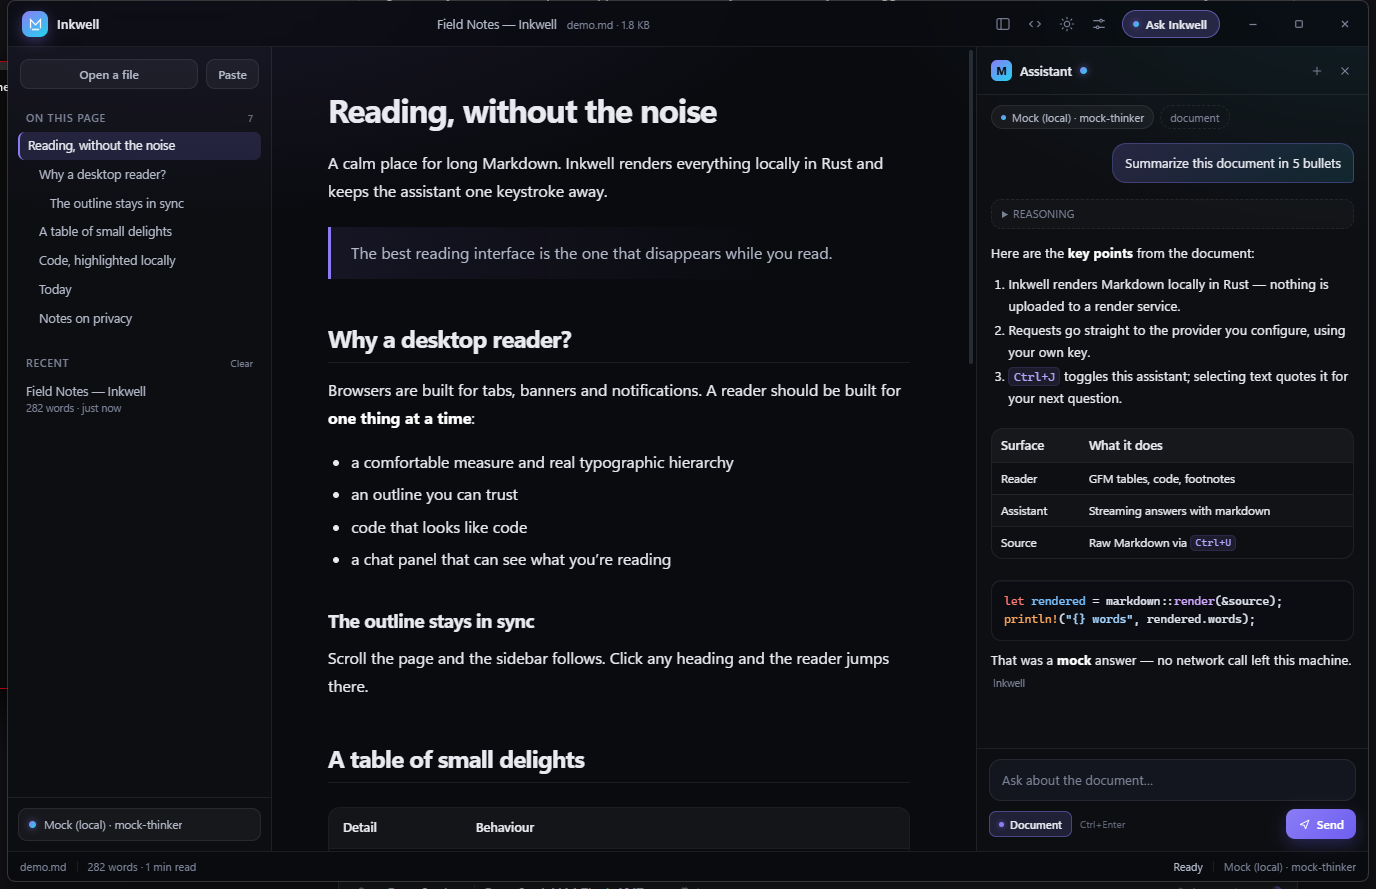
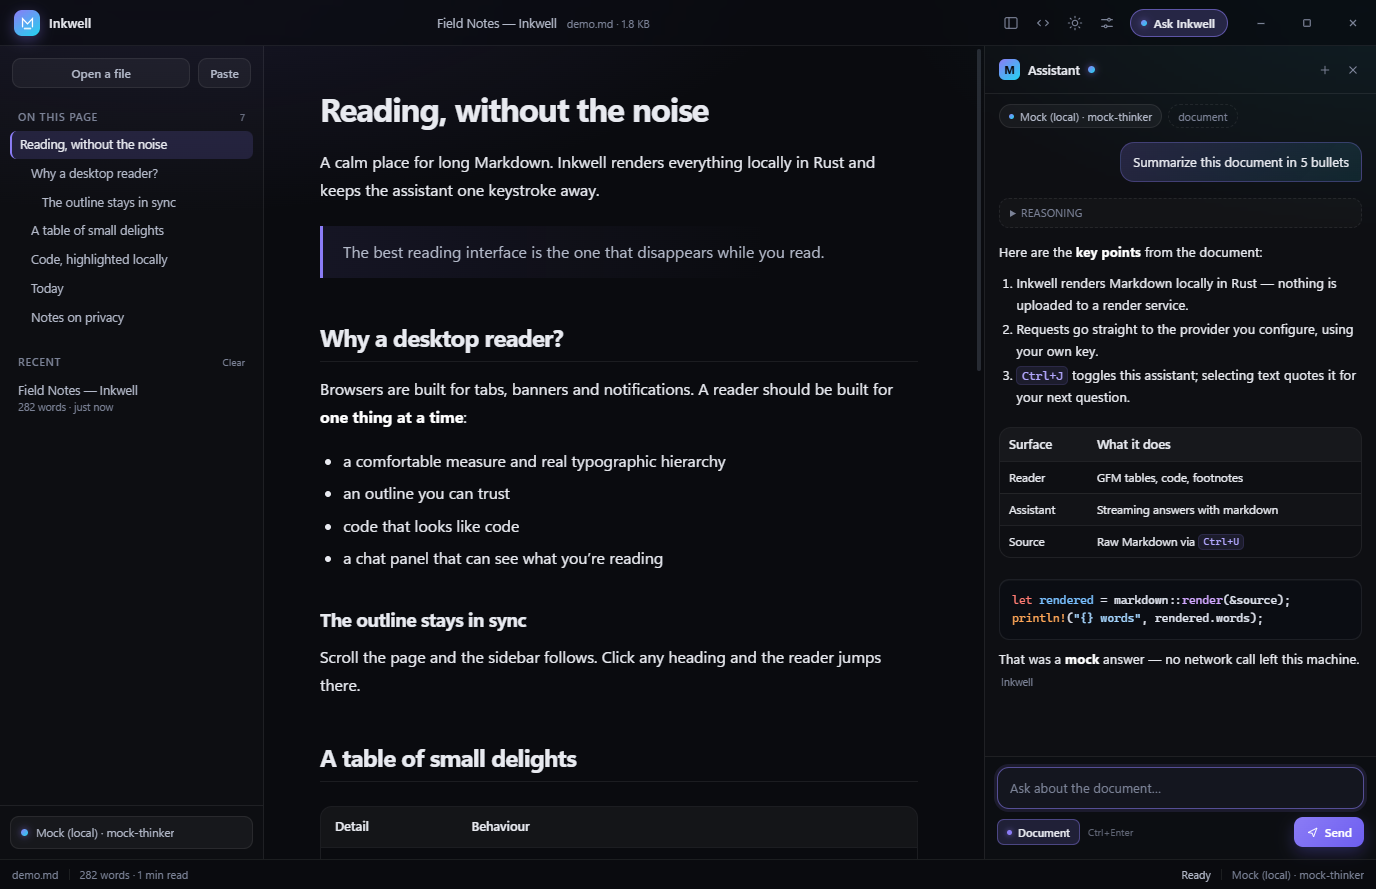
Fix frameless window repaint and add linker config
Force WM_NCCALCSIZE after installing the window subclass so the client area covers the full window and no stale desktop border shows. Add .cargo/config.toml pinning the GNU target to GCC, require Rust 1.85, document the MinGW setup and WebView profile location, and refresh the screenshot.

diff --git a/src/main.rs b/src/main.rs
@@ -106,7 +106,8 @@ fn use_full_window_client_area(window: &tao::window::Window) {
     };
     use windows_sys::Win32::UI::Shell::{DefSubclassProc, SetWindowSubclass};
     use windows_sys::Win32::UI::WindowsAndMessaging::{
-        IsZoomed, NCCALCSIZE_PARAMS, WM_NCCALCSIZE,
+        IsZoomed, NCCALCSIZE_PARAMS, SetWindowPos, SWP_FRAMECHANGED, SWP_NOACTIVATE, SWP_NOMOVE,
+        SWP_NOSIZE, SWP_NOZORDER, WM_NCCALCSIZE,
     };
 
     unsafe extern "system" fn subclass_proc(
@@ -138,6 +139,17 @@ fn use_full_window_client_area(window: &tao::window::Window) {
             let hwnd = win32.hwnd.get() as HWND;
             unsafe {
                 SetWindowSubclass(hwnd, Some(subclass_proc), 1, 0);
+                // Force a non-client recalculation so the new client rect applies
+                // before the webview is created.
+                SetWindowPos(
+                    hwnd,
+                    std::ptr::null_mut(),
+                    0,
+                    0,
+                    0,
+                    0,
+                    SWP_FRAMECHANGED | SWP_NOMOVE | SWP_NOSIZE | SWP_NOZORDER | SWP_NOACTIVATE,
+                );
             }
         }
     }

diff --git a/README.md b/README.md
@@ -46,7 +46,7 @@ the provider.
 ## Requirements
 
 - Windows 10/11 with **WebView2** (preinstalled on current Windows).
-- **Rust** stable, 1.77 or newer.
+- **Rust** stable, 1.85 or newer (wry uses edition 2024).
 - A Windows linker for your toolchain:
   - MSVC toolchain: Visual Studio Build Tools with the Windows SDK.
   - GNU toolchain: **MinGW-w64** (`x86_64-w64-mingw32-gcc`). `scripts\dev.ps1` adds a local
@@ -55,6 +55,12 @@ the provider.
   `.cargo\config.toml` pins the GNU target to GCC because the LLVM linker bundled with some
   GNU toolchains miscompiles large binaries on Windows (the app dies at startup with an access
   violation). If you switch to MSVC, the pin does not apply.
+
+  On a fresh clone, install MinGW-w64 (MSYS2 is the least fussy) so
+  `x86_64-w64-mingw32-gcc` is on `PATH`. The scripts also prepend `tools\w64devkit\bin` when
+  that folder exists. Note that w64devkit 2.10's GCC 16 merged `libgcc_eh` into `libgcc`;
+  if the link complains about `-lgcc_eh`, create an empty archive in GCC's lib directory
+  (`ar rcs libgcc_eh.a`, then delete it if you upgrade GCC).
 
 ## Run
 
@@ -138,7 +144,8 @@ Starting Inkwell with a file argument (`inkwell.exe notes.md`) opens it directly
   rather than injected, so a document or model answer cannot run script in the webview.
 - **Keys never reach the page.** The frontend only sees `hasKey` booleans. Keys live in
   `%APPDATA%\Inkwell\settings.json` (path shown in Settings) and are only used by the Rust
-  HTTP client.
+  HTTP client. WebView state (recent documents, theme, chat thread) stays in
+  `%LOCALAPPDATA%\Inkwell\WebView2`.
 - **Locked-down webview.** A strict CSP allows only embedded scripts/styles and blocks
   script/XHR network access (`connect-src 'none'`); provider traffic happens in Rust. Remote
   images referenced by a document still load like any browser image (and reveal your IP to
